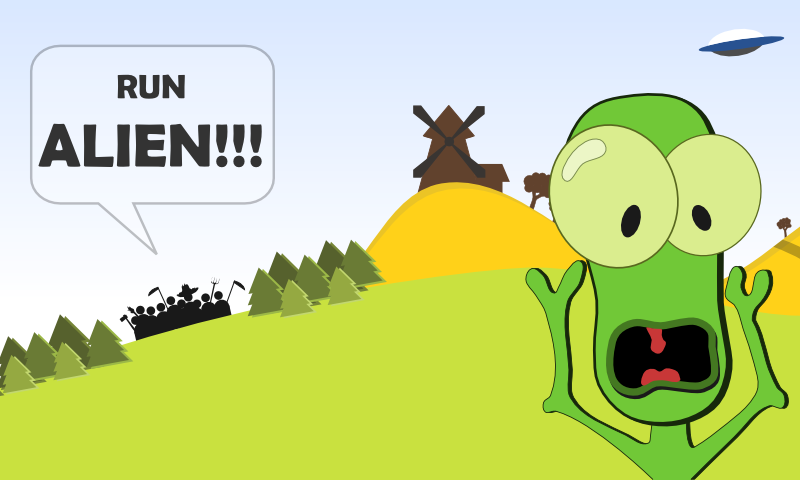
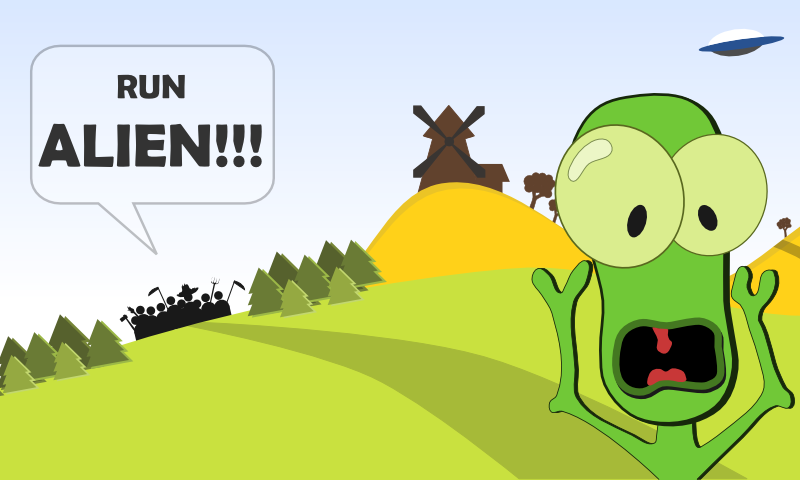
małe poprawki w grafikach i powiększone buttony

diff --git a/src/com/example/mygame/scenes/MainMenuScene.java b/src/com/example/mygame/scenes/MainMenuScene.java
@@ -56,8 +56,8 @@ public class MainMenuScene extends BaseScene implements IOnMenuItemClickListener
 		menuChildScene.buildAnimations();
 		menuChildScene.setBackgroundEnabled(false);
 		
-		playMenuItem.setPosition(281, 250); 
-		rankingMenuItem.setPosition(281, 335); 
+		playMenuItem.setPosition(255, 270); 
+		rankingMenuItem.setPosition(255, 365); 
 		
 		menuChildScene.setOnMenuItemClickListener(this);
 		setChildScene(menuChildScene);
